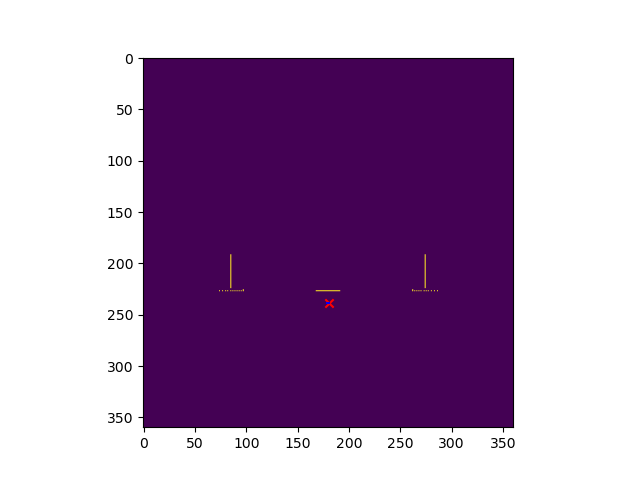
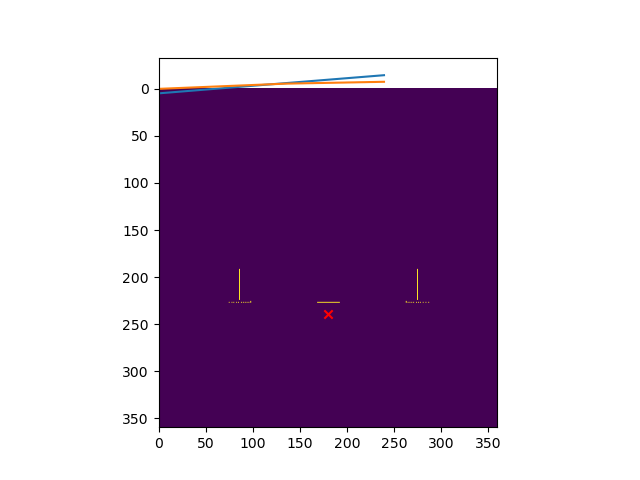
pretty close with automapping

diff --git a/FinalProject/controllers/grocery_shopper/grocery_shopper.py b/FinalProject/controllers/grocery_shopper/grocery_shopper.py
@@ -570,38 +570,30 @@ while robot.step(timestep) != -1:
         planning_counter += 1
     if planning_counter >= planning_interval:
         planning_counter = 0
-
-        # Build binary map for A*: 1=obstacle, 0=free or unexplored
         bmap = (map >= obstacle_thresh).astype(np.uint8)
-
-        # Robot’s grid cell
         rix = int((pose_x + x_dim/2) * scale_x)
         riy = int((y_dim/2 + pose_y) * scale_y)
         rcell = (rix, riy)
-
-        # Find all unexplored cells (value == 0)
         unexplored = np.argwhere(map == 0.0)   # array of [x, y] pairs
         if unexplored.size == 0:
             print("Exploration complete!")
             current_path_world = []
         else:
-            # Compute distance in grid‐space and pick closest
             dists = np.linalg.norm(unexplored - np.array(rcell), axis=1)
             idx   = np.argmax(dists)
             goal  = tuple(unexplored[idx])
-
-            # Plan in grid‐space
             path_grid = a_star(bmap, rcell, goal)
             if path_grid:
-                # Convert each grid‐cell to world coords
                 current_path_world = [
                     grid_to_world((cell[1], cell[0]), scale_x, scale_y)
                     for cell in path_grid
                 ]
-                # plt.scatter(y_robot,x_robot,marker='x',color='red')
-                plt.imshow(map,origin='upper')
-                plt.plot(current_path_world)
-                plt.savefig("map.png")
+                plt.scatter(riy,rix,marker='x',color='red')
+                map_display=map.copy()
+                map_display[map>0.5]=1
+                map_display[(map > 0) & (map <= 0.5)]=0.5
+                plt.imshow(map_display,origin='upper')
+                plt.savefig("path.png")
                 current_waypoint_index = 0
                 print(f"Planned path to unexplored cell {goal}, length {len(path_grid)}")
             else:
@@ -613,8 +605,6 @@ while robot.step(timestep) != -1:
                 current_waypoint_index = 0
             else:
                 wp = current_path_world[current_waypoint_index]
-                
-            # distance, angle_error = compute_control((pose_x,pose_y,pose_theta), wp)
             wp = current_path_world[current_waypoint_index]
             x_goal,y_goal=wp
             print("Y_goal: ", y_goal, "X_goal: ", x_goal)
